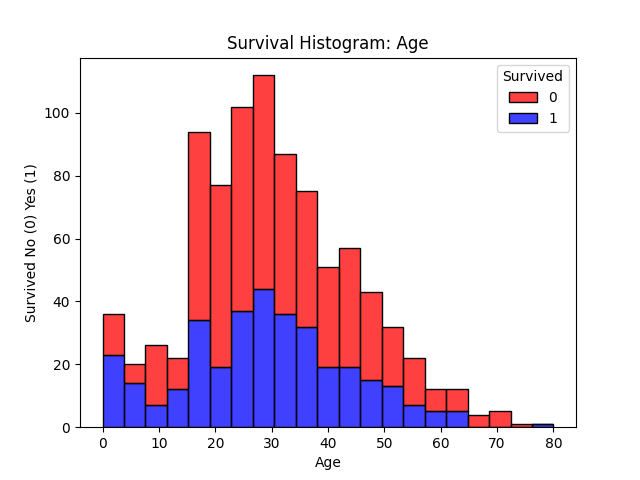
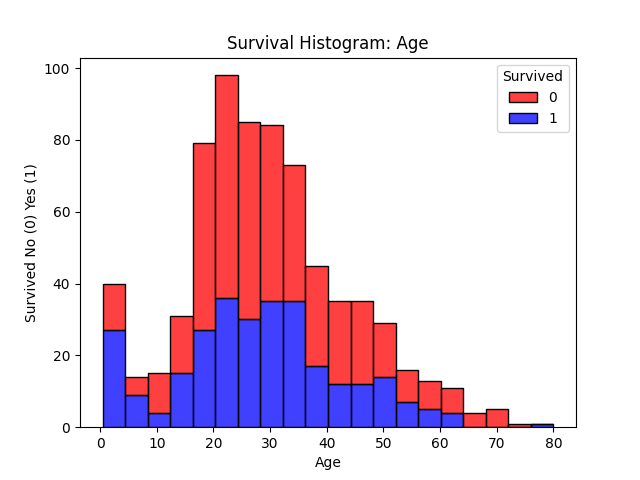
setup of data cleaning and structuring

diff --git a/titanic.py b/titanic.py
@@ -3,25 +3,52 @@ import numpy as np
 import matplotlib.pyplot as plt
 import seaborn as sns
 from sklearn.ensemble import RandomForestClassifier
+from functions.functions import null_count_by_column, pivot_cat
 
-# Read train.csv as Pandas Dataframe
-df_train = pd.read_csv('sourceData/train.csv')
+# Loading data as pandas dataframe:
+df_train = pd.read_csv('sourceData/train.csv')  # Survival provided
+df_test = pd.read_csv('sourceData/test.csv')  # Survival not provided, to predict
+df_titanic = pd.read_csv('sourceData/titanic.csv')  # Full dataset for checking prediction accuracy
 
-# Read test.csv as Pandas Dataframe
-df_test = pd.read_csv('sourceData/test.csv')
+# Understanding the Data:
+# df_train.describe()
+# df_train.info()
 
-# Read titanic.csv as Pandas Dataframe
-df_titanic = pd.read_csv('sourceData/titanic.csv')
-
-# Print features for which values are NaN
-for col in df_train.columns:
-      n_missing = df_train[col].isnull().sum()
-      if n_missing > 0:
-            print(f'df_train[{col}] contains #{n_missing} missing values!')
-print(f'Conclusion 1: "Cabin" is a NON relevant feature as the majority of observations are missing \n')
+null_count_by_column(df_train)  # Print features for which values are null
+null_count_by_column(df_test)  #todo consider = .Age/Fare.fillna(df.Age/Fare.mean()
 
 col_num = ['Age', 'SibSp', 'Parch', 'Fare']
 col_cat = ['Survived', 'Pclass', 'Sex', 'Ticket', 'Cabin', 'Embarked']
+
+"""
+Clean the Data:
+"""
+
+df_train.dropna(subset=['Embarked'], inplace=True)  # Only 2 rows with missing values
+
+df_train['Cabin_n'] = df_train.Cabin.apply(lambda x: 0 if pd.isna(x) else len(x.split(' ')))  # 0 is NaN
+df_train['Cabin_section'] = df_train.Cabin.apply(lambda x: str(x)[0])
+df_train['Name_title'] = df_train.Name.apply(lambda x: x.split(',')[1].split('.')[0].strip())
+
+
+"""
+Explore the Data:
+"""
+
+pd.pivot_table(df_train, index='Survived', values=col_num)
+pivot_cat(df_train, ['Pclass', 'Sex', 'Embarked', 'Cabin_n', 'Cabin_section', 'Name_title'])
+
+"""
+Feature engineering:
+"""
+
+
+
+
+
+print(f'Conclusion 1: "Cabin" is a NON relevant feature as the majority of observations are missing \n')
+
+
 
 # Plot Histogram for numerical features
 for col in col_num:

diff --git a/functions/functions.py b/functions/functions.py
@@ -1,0 +1,12 @@
+import pandas as pd
+
+def null_count_by_column(df):
+    print(f'DataFrame shape: {df.shape}', end='\n\n')
+    col_missingValues = (df.isnull().sum())
+    print(col_missingValues[col_missingValues > 0])
+
+
+def pivot_cat(df, columns):
+    for col in columns:
+        pivot = print(pd.crosstab(df['Survived'], df_train[col], values='Ticket', aggfunc='count', normalize='columns'))
+        print(f'{pivot}')

diff --git a/__init__.py b/__init__.py
@@ -1,0 +1,1 @@
+# The __init__.py files are required to make Python treat directories containing the file as packages.

diff --git a/functions/__init__.py b/functions/__init__.py
@@ -1,0 +1,1 @@
+# The __init__.py files are required to make Python treat directories containing the file as packages.
